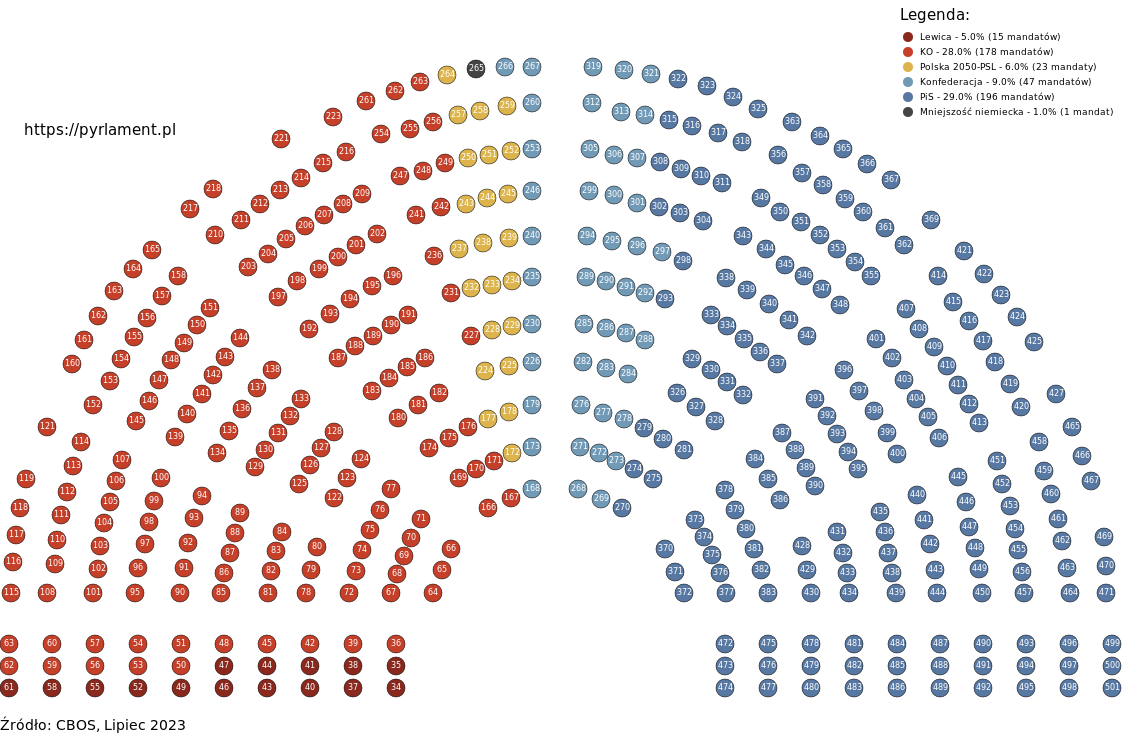
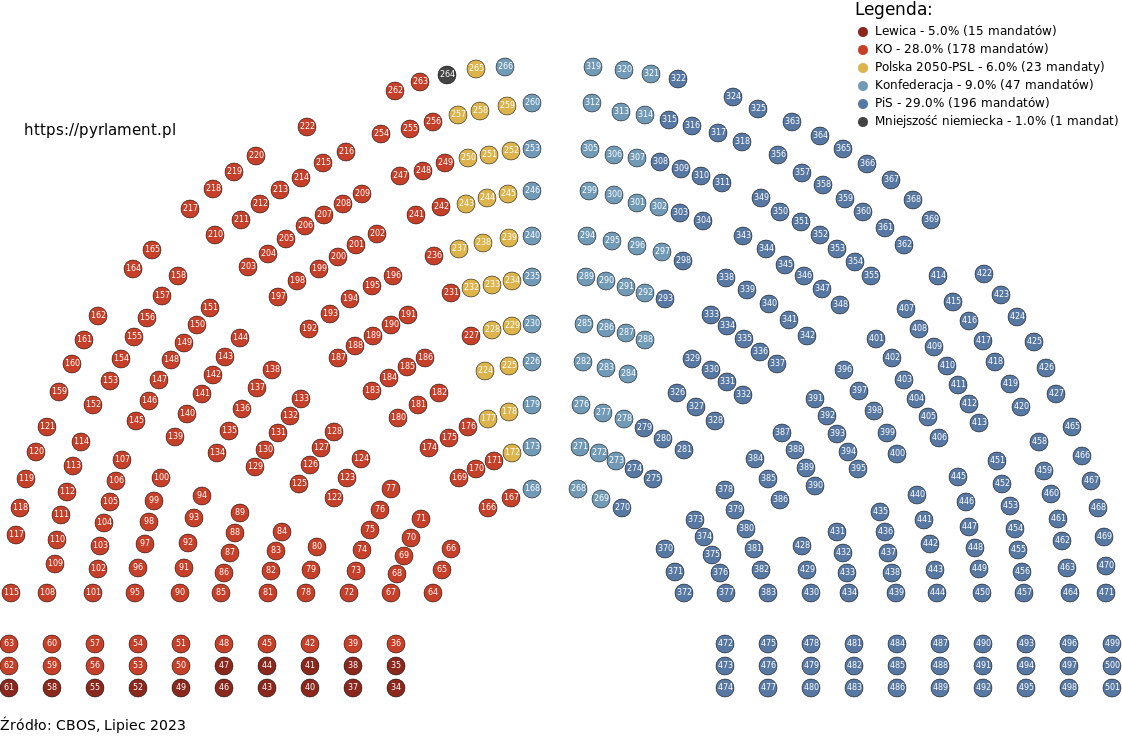
Generated image size optimised

diff --git a/pyrlament/generator.py b/pyrlament/generator.py
@@ -401,23 +401,23 @@ class SeatsGenerator:
         return drawsvg.Text(self.caption, 14, 0, 730, fill="#000000", font_family="sans-serif")
 
     def _draw_legend(self) -> drawsvg.Group:
-        legend = drawsvg.Group(transform="translate(900 20)")
-        legend.append(drawsvg.Text("Legenda:", 15, 0, 0, fill="#000000", font_family="sans-serif"))
+        legend = drawsvg.Group(transform="translate(855 15)")
+        legend.append(drawsvg.Text("Legenda:", 17, 0, 0, fill="#000000", font_family="sans-serif"))
         cr_x = 20
         cr_y = 20
         for p in self.parties:
             legend.append(drawsvg.Circle(cr_x - 12, cr_y - 3, 5, fill=f"#{p.color}"))
             legend.append(
                 drawsvg.Text(
-                    f"{p.label} - {p.support}% ({p.seats} {self._get_mandates_label(p.seats)})",
-                    9,
-                    cr_x,
-                    cr_y,
+                    text=f"{p.label} - {p.support}% ({p.seats} {self._get_mandates_label(p.seats)})",
+                    font_size=12,
+                    x=cr_x,
+                    y=cr_y,
                     fill="#000000",
                     font_family="sans-serif",
                 )
             )
-            cr_y += 15
+            cr_y += 18
         return legend
 
     @staticmethod
